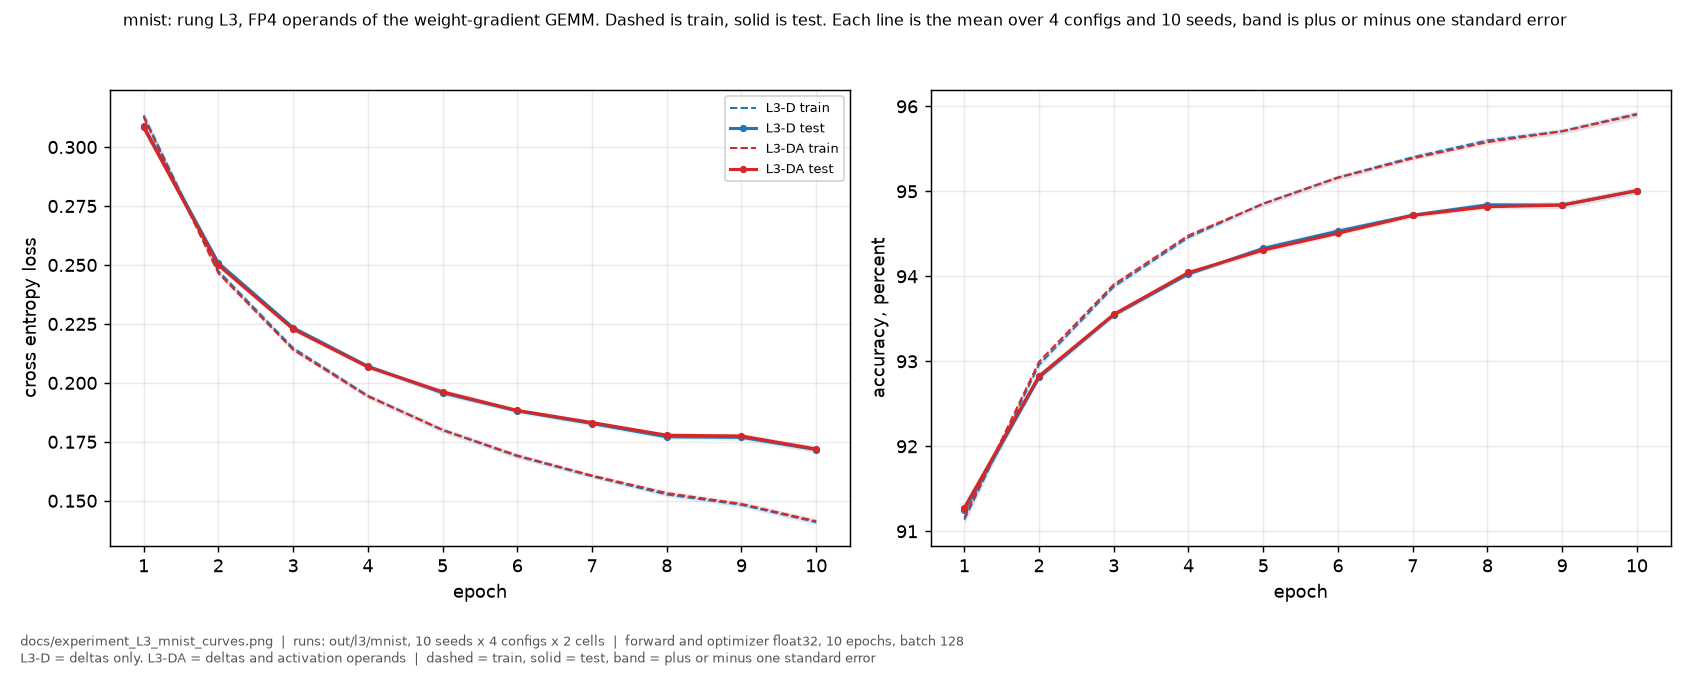
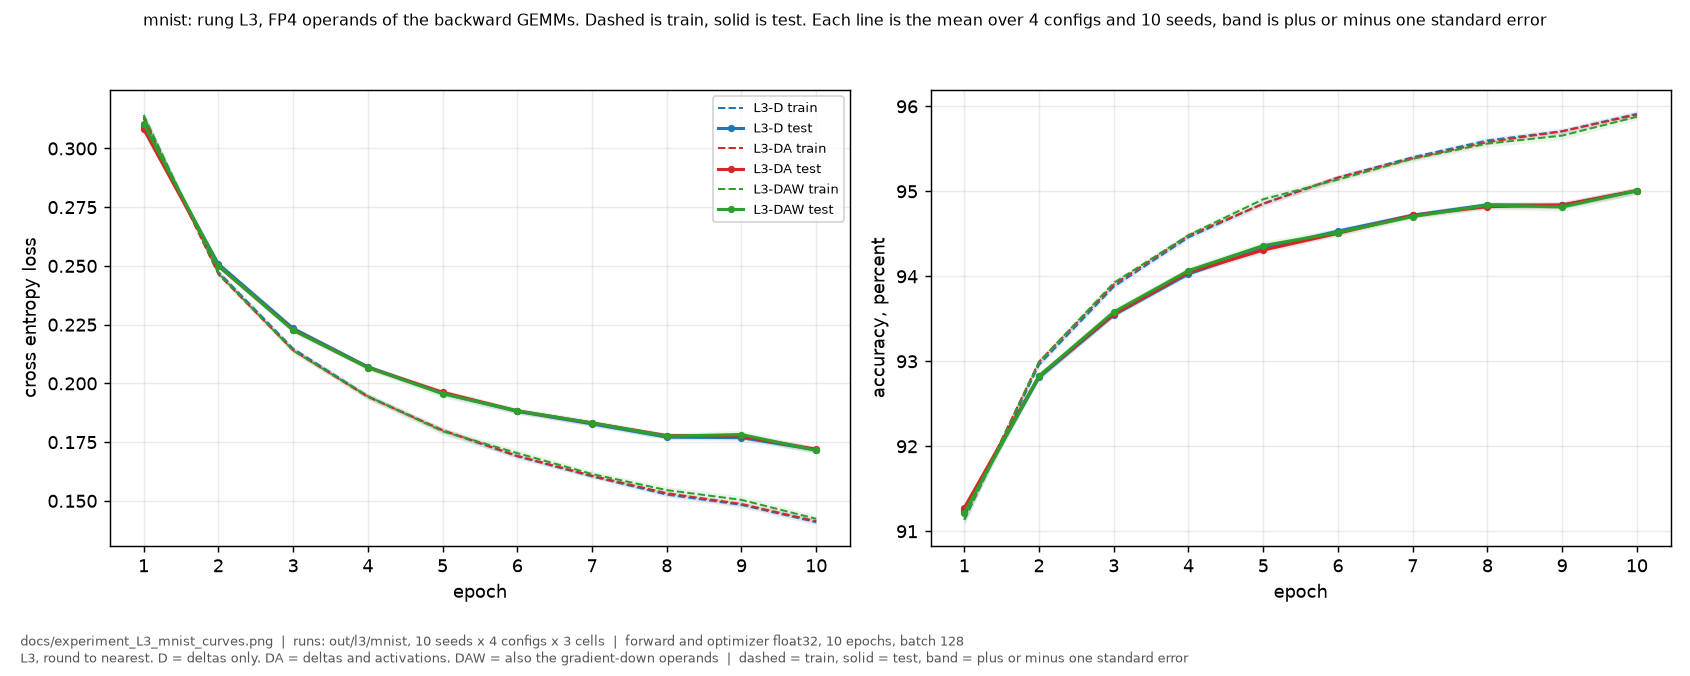
L3-DAW measured: the whole backward pass in FP4, bound 0.2 points on MNIST. Figure regenerated with three cells

diff --git a/python/l3.py b/python/l3.py
@@ -346,7 +346,7 @@ def draw(seeds):
                  f"test. Each line is the mean over {len(CONFIG_NAMES)} configs and {len(seeds)} seeds, "
                  f"band is plus or minus one standard error", fontsize=8.6)
     fig.text(0.012, 0.045, f"docs/experiment_{RUNG}_{DATASET}_curves.png  |  runs: out/{RUNG.lower()}/{DATASET}, "
-                          f"{len(seeds)} seeds x {len(CONFIG_NAMES)} configs x 2 cells  |  "
+                          f"{len(seeds)} seeds x {len(CONFIG_NAMES)} configs x {len(CELLS)} cells  |  "
                           f"forward and optimizer float32, 10 epochs, batch {BATCH}", fontsize=7.0, color="#555555")
     fig.text(0.012, 0.020, f"{RUNG}, {'round to nearest' if ROUNDING == 'rtn' else 'stochastic rounding'}. "
                            "D = deltas only. DA = deltas and activations. DAW = also the "

diff --git a/docs/experiment_L3.md b/docs/experiment_L3.md
@@ -131,9 +131,10 @@ No other value changed and no run was repeated.
 
 ## Results, MNIST, 10 seeds
 
-80 runs, both cells, four configurations, ten epochs. Finished 2026-11-16. The output is
+120 runs, three cells, four configurations, ten epochs. Finished 2026-11-16. The output is
 `out/l3_mnist.log`, the runs are `out/l3/mnist/`, and the figure is
-`docs/experiment_L3_mnist_curves.png`.
+`docs/experiment_L3_mnist_curves.png`. Cell L3-DAW was added on Dzemo's instruction after the first two
+cells had run, so it was measured after them, with the same code and the same seeds.
 
 **L0 has no configuration.** It is float32 all the way: no scale, no block, no payload code, so the four
 configurations do not exist for it. It is one number over ten seeds:
@@ -149,6 +150,7 @@ of ten seeds. The `±` is one standard deviation over those ten seeds, not a sta
 |-|-:|-:|-:|-:|-:|
 | **L3-D**, deltas rounded | 95.01 ±0.32 | 94.99 ±0.23 | 95.03 ±0.27 | 94.99 ±0.31 | **95.01** |
 | **L3-DA**, deltas and activations rounded | 94.98 ±0.27 | 95.07 ±0.12 | 95.00 ±0.30 | 94.98 ±0.30 | **95.01** |
+| **L3-DAW**, and the gradient-down operands | 95.05 ±0.24 | 95.00 ±0.24 | 94.93 ±0.31 | 95.05 ±0.25 | **95.01** |
 
 Paired against L0, same seed. The mean difference is in accuracy points and `se` is the standard
 error of that difference, which is a different quantity from the seed spread above:
@@ -167,11 +169,18 @@ error of that difference, which is a different quantity from the seed spread abo
 | L3-DA against L3-D | f6-e6m2 | +0.09 | 0.05 | 6 of 10 | no decision |
 | L3-DA against L3-D | a6-e5m3 | −0.03 | 0.06 | 4 of 10 | no decision |
 | L3-DA against L3-D | f6-e5m3 | −0.01 | 0.02 | 5 of 10 | no decision |
+| L3-DAW | a6-e6m2 | +0.03 | 0.08 | 3 of 10 | no decision |
+| L3-DAW | f6-e6m2 | −0.02 | 0.07 | 4 of 10 | no decision |
+| L3-DAW | a6-e5m3 | −0.09 | 0.06 | **8 of 10** | no decision. The sign condition is met and the size condition is not: 0.09 is below 2 × 0.06 |
+| L3-DAW | f6-e5m3 | +0.04 | 0.08 | 6 of 10 | no decision |
 
-**The rule did not select L3-DA over L0 and it did not reject it.** The largest mean difference in the whole
-table is 0.09 points, and its standard error is 0.05. So the statement this rung supports is an
-**equivalence bound**: on MNIST, rounding the operands of the weight-gradient GEMM to FP4 moves the final
-accuracy by less than 0.2 points, at two standard errors, in either direction.
+**The rule did not select any cell over L0 and it did not reject any cell.** The largest mean difference in
+the whole table is 0.09 points, with a standard error of 0.06, and one configuration of L3-DAW met the sign
+condition without meeting the size condition. So the statement this rung supports is an **equivalence
+bound**: on MNIST, with a float32 forward pass, rounding the operands of the backward GEMMs to FP4 moves the
+final accuracy by **less than 0.2 points**, at two standard errors, in either direction.
+
+That bound now covers the whole backward pass, because L3-DAW rounds the operands of both GEMM families.
 
 The rounded operands, last epoch, mean over every seed and configuration:
 
@@ -186,6 +195,12 @@ The rounded operands, last epoch, mean over every seed and configuration:
 | L3-DA | `X` | 23.98 | 4.00% | |
 | L3-DA | `A1` | 20.70 | 4.03% | |
 | L3-DA | `A2` | 20.68 | 3.84% | |
+| L3-DAW | `dZ3` along the batch | 25.45 | 80.87% | W1 0.9963, W2 0.9935, W3 0.9934 |
+| L3-DAW | `dZ2` along the batch | 23.63 | 59.48% | |
+| L3-DAW | `dZ1` along the batch | 23.67 | 59.39% | |
+| L3-DAW | **`dZ3` along N** | 24.04 | **70.70%** | `dA2` 0.9938, `dA1` 0.9932 |
+| L3-DAW | **`dZ2` along N** | 21.12 | **11.86%** | |
+| L3-DAW | `X`, `A1`, `A2` | 23.98, 20.70, 20.59 | 4.00%, 3.86%, 3.06% | |
 
 ### What the data says
 
@@ -197,6 +212,9 @@ The rounded operands, last epoch, mean over every seed and configuration:
 | the vanished share does not follow the noise | `A1` has 20.70 dB of SQNR and 4% vanished. `dZ1` has 23.89 dB and 66% vanished. The share depends on the spread inside a block, the dB depends on the error norm |
 | the cosine moves with the number of rounded operands | 0.998 with the deltas alone, 0.994 with the deltas and the activations |
 | the prediction on record held | the expected effect was less than 0.5 points and not separable, from `second_rounding_probe.py`. It measured 0.09 and no decision |
+| **the whole backward pass survives FP4 on MNIST** | L3-DAW rounds both GEMM families and lands on 95.01 against 95.01, with a bound of 0.2 points |
+| the two blockings of `dZ` are not equal | `dZ3` vanishes 80.87% along the batch and 70.70% along N. `dZ2` vanishes 59.48% along the batch and **11.86%** along N. One 1D format needs two copies with two different error patterns |
+| rounding the gradient-down GEMM costs almost nothing | the cosine of `dA2` against float is 0.9938 and of `dA1` 0.9932 |
 | the curves are indistinguishable by eye | `docs/experiment_L3_mnist_curves.png`. The train loss curves of the two cells lie on each other for ten epochs |
 
 ### What this means for the ladder

diff --git a/docs/experiment_plan.md b/docs/experiment_plan.md
@@ -14,7 +14,7 @@ All experiments will be in software, Python before RTL work starts.
 |L1e|L1d with a stated **datapath** (integer payload product, fixed-width accumulator, rounded scale product)|does the datapath rounding cost accuracy, and how wide must the accumulator be|
 |L2|QAT - FP4 for **weights only** of the forward pass, master **weights and activations** in FP32, backprop FP32|how does FP4 influence the forward pass in training|
 |L2a|QAT - FP4 for weights **and activations** of the forward pass, master weights in FP32, backprop FP32|how does weight+activation quantization affect the forward pass in training for full QAT|
-|L3|FP32 weights and activations, FP4 backprop only with Round To Nearest|how many updates vanish? discretization error (gap). **Measured on MNIST: 66% to 81% of the delta entries vanish, and both cells stay within 0.2 points of the float row**|
+|L3|FP32 weights and activations, FP4 backprop only with Round To Nearest|how many updates vanish? discretization error (gap). **Measured on MNIST, three cells including the full backward pass: 59% to 81% of the delta entries vanish, and every cell stays within 0.2 points of the float row**|
 |L4|FP32 weights and activations, FP4 backprop with Stochastic Rounding| SR vs RTN, does it recover L3? **Not run on MNIST: L3 left a gap of 0.09 points there, so there is nothing to recover. SR folds into MNIST-1D or into L5**|
 |L5|FP4 forward and backprop (L2+L3+L4), optimizer FP32|does native weight and activations in FP4 train? **The next rung to write. Both tile shapes run here, `docs/experiment_block.md`. It is also where the three dials are decided**|
 |L6|FP4 forward, backprop AND optimizer|full native FP4 loop trains?|

diff --git a/docs/README.md b/docs/README.md
@@ -13,7 +13,7 @@ the work that follows it.
 | `experiment_L1.md` | L1, L1d, L1d-bias and L1e measured on MNIST and MNIST-1D | Active |
 | `experiment_L2.md` | L2, QAT on the weights only. Measured on MNIST and MNIST-1D | Active |
 | `experiment_block.md` | The weight blocking: two 1D copies against a 16 by 16, an 8 by 8 and a 4 by 4 tile. Measured on MNIST and MNIST-1D, 480 runs. Verdict: both copies and both coarser tiles rejected, 4 by 4 is the only survivor | Active |
-| `experiment_L3.md` | L3, FP4 backward pass with the weights, the activations and the optimizer in float. Measured on MNIST: no decision in either cell, and an equivalence bound of 0.2 points | Active |
+| `experiment_L3.md` | L3, FP4 backward pass with the weights, the activations and the optimizer in float. Measured on MNIST, three cells: no decision anywhere, and the whole backward pass stays within 0.2 points | Active |
 | `experiment_L4.md` | L4, the same three cells with stochastic rounding instead of round to nearest. Written and prepared, not yet run. MNIST and MNIST-1D | Prepared |
 | `ADR/` | Every architectural decision, one file per decision, in the Tyree and Akerman template. `ADR/README.md` is the index | Active |
 | `contract.md` | The training datapath: model, optimizer, rounding points, metrics | Not written |

diff --git a/docs/ADR/experiment_L3-scope.md b/docs/ADR/experiment_L3-scope.md
@@ -6,11 +6,12 @@ weights, so no weight sits on a grid and no second blocking exists in it.
 
 **Decision**: L3 runs with float32 weights, float32 activations, float32 optimizer and float32 loss. Only the
 operands of the weight-gradient GEMM are rounded to FP4, once each, with one 8-bit scale per 16 samples. The
-rounding rule is round to nearest. Two cells are run: `L3-D`, which rounds only the loss gradients, and
-`L3-DA`, which also rounds the activation operands.
+rounding rule is round to nearest. Three cells are run: `L3-D`, which rounds only the loss gradients, `L3-DA`, which also rounds the
+activation operands, and `L3-DAW`, which also rounds the operands of the gradient-down GEMM.
 
-**Status**: Decided and measured, 2026-11-16. Both cells ran on MNIST, 80 runs, and neither differs from
-the float row by more than 0.2 points at two standard errors.
+**Status**: Decided and measured, 2026-11-16. Three cells ran on MNIST, 120 runs, and none differs from the
+float row by more than 0.2 points at two standard errors. Cell L3-DAW was added on Dzemo's instruction, so
+that the bound covers the whole backward pass and not only the weight-gradient GEMM.
 
 **Group**: experiment protocol.
 
